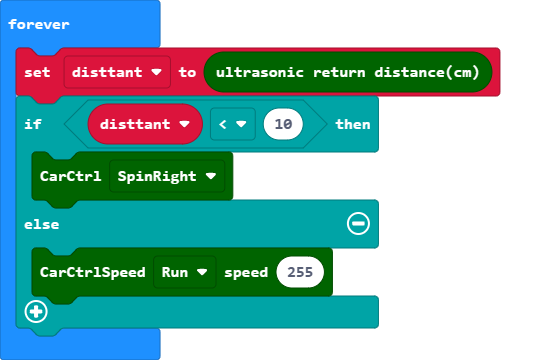
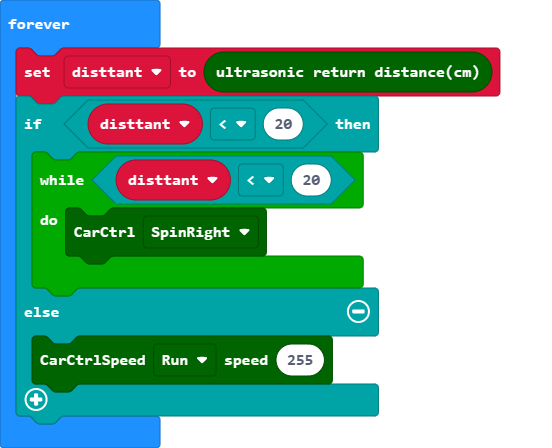
Update main.blocks, main.ts

diff --git a/main.ts b/main.ts
@@ -1,8 +1,10 @@
 let disttant = 0
 basic.forever(function () {
     disttant = Tinybit.Ultrasonic_Car()
-    if (disttant < 10) {
-        Tinybit.CarCtrl(Tinybit.CarState.Car_SpinRight)
+    if (disttant < 20) {
+        while (disttant < 20) {
+            Tinybit.CarCtrl(Tinybit.CarState.Car_SpinRight)
+        }
     } else {
         Tinybit.CarCtrlSpeed(Tinybit.CarState.Car_Run, 255)
     }
